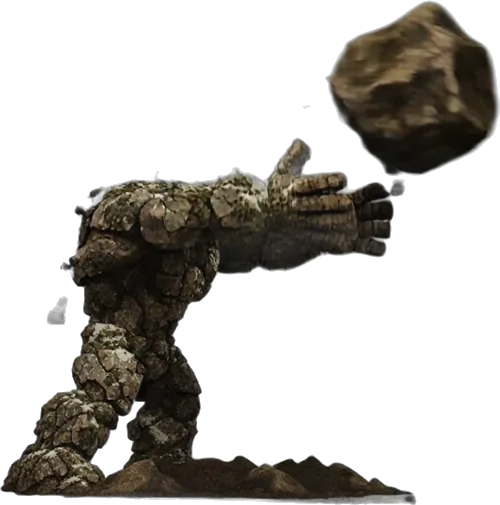
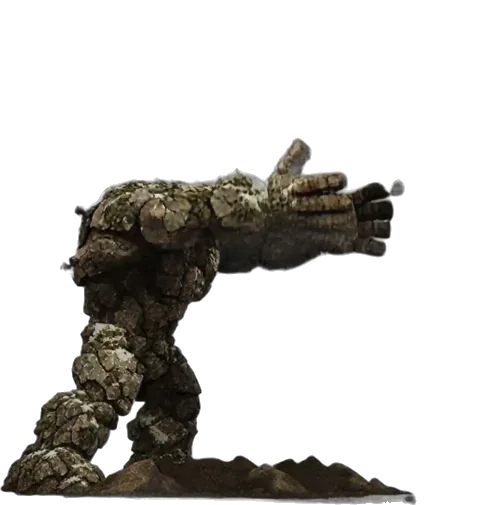
Bossové: obr (bažina), drak (džungle), kamenný obr (hory), Král lichů (palác); scéna vstupu do brány paláce; obrův balvan z videa se po odhození nekreslí
Claude-Session: https://claude.ai/code/session_015jCRZS7ASg3pqxo763VEwg

diff --git a/tools/build_golem_anims.py b/tools/build_golem_anims.py
@@ -14,8 +14,32 @@ from build_zombie_anims import main  # noqa: E402
 ANIMS = {
     "walk": ("walk", list(range(0, 26)), True, -1),
     "punch": ("punch", list(range(4, 58)), False, 30),
-    "throw": ("throw", [i for i in range(0, 60) if i not in (29, 30, 31)], False, 52),
+    "throw": ("throw", [i for i in range(0, 60) if i not in (29, 30, 31)], False, 49),
 }
 
+def strip_boulder():
+    """Po odhození (od snímku úderu dál) nechá jen obra – balvan z videa se smaže,
+    ve hře letí vlastní balvan."""
+    import numpy as np
+    from PIL import Image
+    from scipy import ndimage
+    root = os.path.dirname(os.path.dirname(os.path.abspath(__file__)))
+    vid, frames, loop, impact = ANIMS["throw"]
+    for n in range(impact, len(frames)):
+        path = os.path.join(root, f"art/enemy_anim/golem/throw_{n:02d}.webp")
+        im = Image.open(path).convert("RGBA")
+        a = np.asarray(im).copy()
+        fg = a[..., 3] > 120
+        lab, k = ndimage.label(ndimage.binary_dilation(fg, iterations=1))
+        if k < 2:
+            continue
+        sizes = ndimage.sum(fg, lab, range(k + 1))
+        keep = ndimage.binary_dilation(lab == int(np.argmax(sizes[1:])) + 1, iterations=2)
+        a[..., 3] = np.where(keep, a[..., 3], 0)
+        Image.fromarray(a, "RGBA").save(path, quality=82, method=6)
+
+
 if __name__ == "__main__":
-    main(sys.argv[1], ANIMS, "golem", 150.0)
+    if len(sys.argv) > 1:
+        main(sys.argv[1], ANIMS, "golem", 150.0)
+    strip_boulder()
